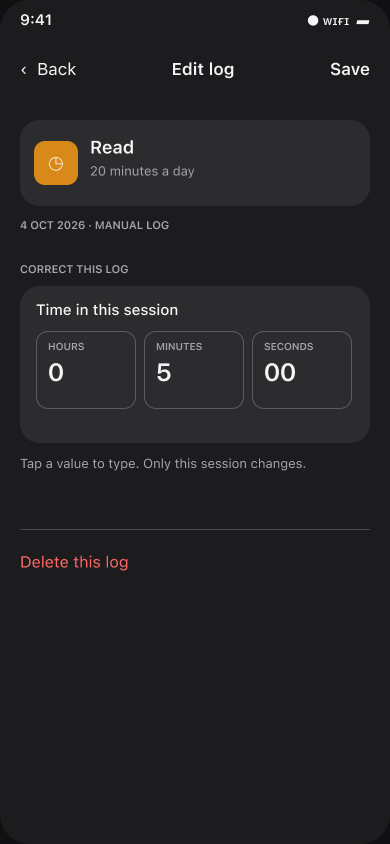
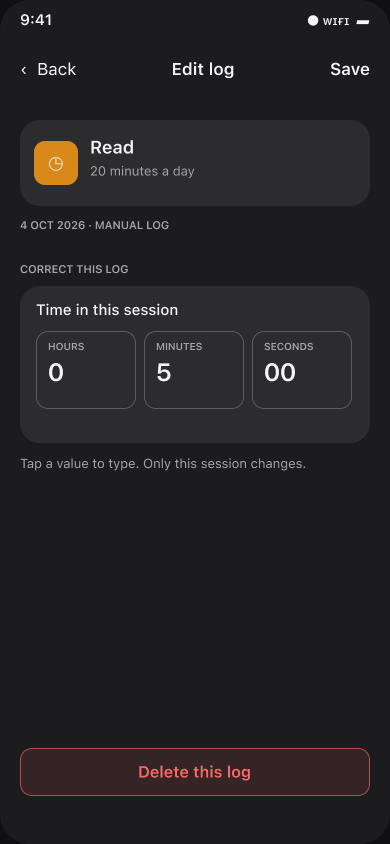
docs: refine entry editor delete action

Changed region(s): [[0.0308, 0.8626, 0.9538, 0.955], [0.0615, 0.6469, 0.3385, 0.6777]]

diff --git a/Research/Research Reports/Day Structure and Organization/Day Details and Entry Editor Handoff/Entry Editor Wireframes.md b/Research/Research Reports/Day Structure and Organization/Day Details and Entry Editor Handoff/Entry Editor Wireframes.md
@@ -2,11 +2,11 @@
 
 Written by Codex (OpenAI), 4 October 2026. [Handoff index](README.md) · [editor research](<Editing One Habit Log — Scope, Fields and Recovery.md>) · [decision history](<Decision History — Why the Layout Changed.md>) · [editable Figma board](https://www.figma.com/design/Ncccsm1l2O62GJ5xLSInqk/Design?node-id=408-2071).
 
-**These are pop-up wireframes showing the correction layout, fields and interaction states—not final iOS designs.** Implement real SwiftUI navigation, text fields, native keyboard, compact `DatePicker`, controls and alerts. The drawn status bar, keyboard, focus ring, chevrons, buttons, dividers and exact heights are only visual representations. Follow Rulebook U1/U6/U9/U19 and the [native implementation contract](<Native Implementation Contract.md>).
+**These are pop-up wireframes showing the correction layout, fields and interaction states—not final iOS designs.** Implement real SwiftUI navigation, text fields, native keyboard, compact `DatePicker`, controls and alerts. The drawn status bar, keyboard, focus ring, chevrons, buttons and exact heights are only visual representations. Follow Rulebook U1/U6/U9/U19 and the [native implementation contract](<Native Implementation Contract.md>).
 
 ## Scope and common structure
 
-Tapping an **editable saved record** from Day details opens **Edit log** for an amount, duration or multi-check count, or **Edit slip** for a quit occurrence. The first editable item is the fact that this *one* record owns. Habit name/icon, tracked day, source and time zone provide context without replacing the field. Save changes only this record, preserves its ID and other records, and returns to the relevant Day details state. Back discards the draft; if the user changed it, provide an appropriate discard decision before losing work. The separated **Delete this log / Delete this slip** action names exactly what will be deleted and confirms until there is a reliable one-record Undo (U19).
+Tapping an **editable saved record** from Day details opens **Edit log** for an amount, duration or multi-check count, or **Edit slip** for a quit occurrence. The first editable item is the fact that this *one* record owns. Habit name/icon, tracked day, source and time zone provide context without replacing the field. Save changes only this record, preserves its ID and other records, and returns to the relevant Day details state. Back discards the draft; if the user changed it, provide an appropriate discard decision before losing work. A full-width, native bordered **Delete this log / Delete this slip** button sits near the bottom safe area, separated by open space from the editable field and Save. There is **no divider above it**. Tapping Delete opens a native confirmation alert; no record is removed until the person chooses its destructive action (U19). In the keyboard-focused state, the keyboard covers the bottom area; dismiss it to reach Delete rather than floating a destructive control beside the keyboard.
 
 No generic editor opens for a one-time task, checklist step, once-daily binary check, single check toward a weekly/monthly goal, or individual one-check record. Those correct with their named controls in Day details. A multi-check *record whose integer value can change* does need the count editor. Do not leave a chevron pointing to a removed screen.
 
@@ -16,7 +16,7 @@ No generic editor opens for a one-time task, checklist step, once-daily binary c
 
 ![Water amount record editor](Images/entry-01-water-amount.png)
 
-Show this saved record's amount and **glass** unit together; the whole-day 8-glass target is context, not an editable field here. Use a native numeric field with locale-aware decimal handling and validation; Save affects only this one log. The destructive action is separated from the value and Save. [Figma state](https://www.figma.com/design/Ncccsm1l2O62GJ5xLSInqk/Design?node-id=408-2077).
+Show this saved record's amount and **glass** unit together; the whole-day 8-glass target is context, not an editable field here. Use a native numeric field with locale-aware decimal handling and validation; Save affects only this one log. The distinct bottom Delete button opens the confirmation shown in state 07. [Figma state](https://www.figma.com/design/Ncccsm1l2O62GJ5xLSInqk/Design?node-id=408-2077).
 
 ### 02. Coffee — at-most amount log
 
@@ -74,7 +74,7 @@ The edited draft shows a changed Date and Time and tells the person that Save mo
 
 ![Confirmation for deleting exactly one Water log](Images/entry-07-delete-confirmation.png)
 
-The confirmation must identify **one selected record** and its day; Cancel leaves it untouched. Deleting one log must preserve other logs, the day note and skip flag, then recalculate the day. Use a native `confirmationDialog`/alert appropriate to the iOS context; the mockup's drawn overlay is illustrative. Revisit confirmation only after a durable and discoverable one-record Undo exists (U14/U19). [Figma state](https://www.figma.com/design/Ncccsm1l2O62GJ5xLSInqk/Design?node-id=408-2302).
+Tapping the bottom **Delete this log** button presents this confirmation **before** removal. The pop-up identifies **one selected record** and its day; **Cancel** leaves it untouched and the destructive **Delete log** removes only that record. Other logs, the day note and skip flag stay; then the day recalculates. Use a native SwiftUI alert with a cancel action and a destructive role, not a hand-drawn overlay or immediate deletion. The mockup's drawn alert is illustrative. Apply the same pattern to **Delete this slip**, naming the slip and its occurrence; revisit confirmation only after a durable, discoverable one-record Undo exists (U19). [Figma state](https://www.figma.com/design/Ncccsm1l2O62GJ5xLSInqk/Design?node-id=408-2302).
 
 ## Validation before implementation is called done
 

diff --git a/Research/Research Reports/Day Structure and Organization/Day Details and Entry Editor Handoff/Editing One Habit Log — Scope, Fields and Recovery.md b/Research/Research Reports/Day Structure and Organization/Day Details and Entry Editor Handoff/Editing One Habit Log — Scope, Fields and Recovery.md
@@ -1,6 +1,6 @@
 # Editing One Habit Log — Scope, Fields and Recovery
 
-Written by Codex (OpenAI), 4 October 2026. Research and editable Figma proposal for [Current Work Checklist item 36](<../../../../iOS/Docs/Checklists/Current Work Checklist.md>). This is a design proposal; `EntryEditView` has not been changed. The user's later review prompted the explicit tap-to-type duration interaction and the slip's Date **and** Time fields. The [10 Markdown-renderable wireframes](<Entry Editor Wireframes.md>), [decision history](<Decision History — Why the Layout Changed.md>) and [native implementation contract](<Native Implementation Contract.md>) record the completed handoff. The user found the overall editor direction good, but these pop-ups are **representational wireframes, not final native iOS designs or validated screens**. Implement native controls, keyboard, compact pickers, toolbar and confirmation; do not ship Figma glyphs or geometry (U1/U9/U19).
+Written by Codex (OpenAI), 4 October 2026. Research and editable Figma proposal for [Current Work Checklist item 36](<../../../../iOS/Docs/Checklists/Current Work Checklist.md>). This is a design proposal; `EntryEditView` has not been changed. The user's later reviews prompted the explicit tap-to-type duration interaction, the slip's Date **and** Time fields, and a bottom Delete button with no divider and a confirmation pop-up. The [10 Markdown-renderable wireframes](<Entry Editor Wireframes.md>), [decision history](<Decision History — Why the Layout Changed.md>) and [native implementation contract](<Native Implementation Contract.md>) record the handoff. The user found the overall editor direction good, but these pop-ups are **representational wireframes, not final native iOS designs or validated screens**. Implement native controls, keyboard, compact pickers, toolbar and confirmation; do not ship Figma glyphs or geometry (U1/U9/U19).
 
 ## The decision in brief
 
@@ -48,9 +48,9 @@ The current `DayEntriesSection` gives all non-step, non-task records a chevron. 
 2. **Compact identity/context:** habit icon and name, then the selected day and record's source. This confirms **which log** is being edited without a large introductory card. Treat source as provenance, not a control. The existing `.daySheet` source label “History” may be clearer as “Added from History” in this context; this is display copy only.
 3. **The editable fact:** show one large, clearly labelled value group. Amounts keep their unit beside the input, with singular/plural handled by app copy rules. Duration has small, adjacent **Hours · Minutes · Seconds** numeric fields, including decimal seconds for sub-minute timer logs. A count record has “Checks in this log” and its unit. A slip has **Date** and **Time** rows under “When it happened,” both native compact pickers for one occurrence timestamp. Do not place the goal or day total inside the input; this edit changes a single saved record, not the plan or whole day.
 4. **Scope hint and metadata:** a short “Only this log changes” hint when other logs exist; source and tracked day remain readable. For a backfilled log, `createdAt` is the recording timestamp and may be later than the tracked day, so avoid calling it “Time completed.” A slip's saved recording time zone remains visible, especially when it differs from the phone's current zone. The selected Date and Time use that zone so the same displayed values identify the same occurrence.
-5. **Destructive action:** “Delete this log” or “Delete slip” is a separate, less prominent red row below the form with generous distance from Save and the numeric field. It removes only the selected record. Since current deletion has no durable Undo, confirmation names the exact amount/session/slip and tracked day, with **Cancel** and **Delete log/slip**. If implementation later provides reliable, reachable one-record Undo, the confirmation can be reconsidered under Apple's alert guidance.
+5. **Destructive action:** “Delete this log” or “Delete this slip” is a full-width, native bordered destructive **button near the bottom safe area**, visually distinct from Save and the input. No separator line sits above it. Tapping it changes no data; a native confirmation alert names the exact amount/session/slip and tracked day, with **Cancel** and a destructive **Delete log/slip** action. Only that confirmation removes the selected record. Current deletion has no durable Undo; if implementation later provides reliable, reachable one-record Undo, the alert can be reconsidered under Apple's guidance. When the keyboard is open, let it cover the bottom button and reveal the button after dismissal rather than moving it beside the keys.
 
-Use the existing Day-sheet light/dark colors and SF Pro/system typography. Mocked controls are a visual approximation: implementation should use regular native SwiftUI controls, Dynamic Type, a usable keyboard Done affordance, and at least 44-point touch targets (Rulebook U1/U18). Group label-to-field spacing around 8–10 pt; separate identity, field and destructive action with roughly 24–28 pt outside gaps. These are proposed relationships, not fixed coordinates at all text sizes (U17).
+Use the existing Day-sheet light/dark colors and SF Pro/system typography. Mocked controls are a visual approximation: implementation should use regular native SwiftUI controls, Dynamic Type, a usable keyboard Done affordance, and at least 44-point touch targets (Rulebook U1/U18). Group label-to-field spacing around 8–10 pt; use flexible space between the last field/context and the bottom destructive button, plus a safe-area gap. These are proposed relationships, not fixed coordinates at all text sizes (U17).
 
 ## How a duration is actually changed
 

diff --git a/iOS/Design Rules — Don't Regress.md b/iOS/Design Rules — Don't Regress.md
@@ -304,7 +304,7 @@ Source: [Today's Rows — Tap, Swipe, the Day Sheet and Delete](<../Research/Res
 
 **Spacing in this proposal (U17):** use smaller inter-element gaps inside one job—10 pt status to its control, 8 pt quick to manual and log heading to records, 18 pt logging controls to the logs subgroup. Give the whole day-activity group 28 pt *outside* space above and below it; leave 24 pt between the note and Skip/Undo skip. These are prototype relationships, not added card padding or fixed SwiftUI constants. Recheck on the real iPhone with Dynamic Type before implementation is called done (U1/U9).
 
-**4 Oct 2026 single-record editor proposal; not implemented (U19).** Source: [Editing One Habit Log — Scope, Fields and Recovery](<../Research/Research Reports/Day Structure and Organization/Day Details and Entry Editor Handoff/Editing One Habit Log — Scope, Fields and Recovery.md>) and [ten Markdown-renderable wireframes](<../Research/Research Reports/Day Structure and Organization/Day Details and Entry Editor Handoff/Entry Editor Wireframes.md>) ([editable Figma states](https://www.figma.com/design/Ncccsm1l2O62GJ5xLSInqk/Design?node-id=408-2071)). Amount and duration logs open **Edit log**, a multi-check record opens it only when its saved value can meaningfully change, and a quit slip opens **Edit slip** to correct **when it happened: date and time**. A single check, checklist step and task correct directly in the Day sheet, without a generic “Times 1” form. Duration hours/minutes/seconds are visible together: tap a value to select and type it with the native number or decimal pad, use Next/Done across the fields, and preserve fractional seconds. A slip uses compact native Date and Time pickers in the saved time zone. Keep the chosen log's value and unit first, tracked day/source as compact context, native Back/Save in the toolbar, and a distinct Delete this log/slip action that names the one record and confirms it while no durable deletion Undo exists. Preserve other logs, the note and skip flag. A changed slip date requires an atomic update of timestamp **and** tracking day under the same record ID, with day-bucket and quit-run recalculation; return to the destination Day sheet, leaving the old day's note there. Until that storage path is implemented, do not expose a date picker that appears to save. Route the affected Day-sheet rows without dead chevrons and validate on the iPhone with large text, light/dark and VoiceOver. Build every visual control natively; Figma glyphs and dimensions are representations, not the final design (U1).
+**4 Oct 2026 single-record editor proposal; not implemented (U19).** Source: [Editing One Habit Log — Scope, Fields and Recovery](<../Research/Research Reports/Day Structure and Organization/Day Details and Entry Editor Handoff/Editing One Habit Log — Scope, Fields and Recovery.md>) and [ten Markdown-renderable wireframes](<../Research/Research Reports/Day Structure and Organization/Day Details and Entry Editor Handoff/Entry Editor Wireframes.md>) ([editable Figma states](https://www.figma.com/design/Ncccsm1l2O62GJ5xLSInqk/Design?node-id=408-2071)). Amount and duration logs open **Edit log**, a multi-check record opens it only when its saved value can meaningfully change, and a quit slip opens **Edit slip** to correct **when it happened: date and time**. A single check, checklist step and task correct directly in the Day sheet, without a generic “Times 1” form. Duration hours/minutes/seconds are visible together: tap a value to select and type it with the native number or decimal pad, use Next/Done across the fields, and preserve fractional seconds. A slip uses compact native Date and Time pickers in the saved time zone. Keep the chosen log's value and unit first, tracked day/source as compact context, native Back/Save in the toolbar, and a full-width native **Delete this log/slip** button near the bottom safe area with no divider above it. Tapping Delete must open a native alert naming the one record and offering Cancel and a destructive confirmation; initial tap changes no data while no durable deletion Undo exists. Preserve other logs, the note and skip flag. A changed slip date requires an atomic update of timestamp **and** tracking day under the same record ID, with day-bucket and quit-run recalculation; return to the destination Day sheet, leaving the old day's note there. Until that storage path is implemented, do not expose a date picker that appears to save. Route the affected Day-sheet rows without dead chevrons and validate on the iPhone with large text, light/dark and VoiceOver. Build every visual control natively; Figma glyphs and dimensions are representations, not the final design (U1).
 
 ## Ticking off, folding and settings (1 Oct 2026)
 

diff --git a/RULEBOOK.md b/RULEBOOK.md
@@ -112,7 +112,7 @@ results, what's still open) · `iOS/Tools/perf/` (scripts) · the speed tables o
 | U16 | **Day-sheet action emphasis follows the goal.** Quick and manual logging controls use equal native-size hit areas, with style expressing priority. Positive goal actions such as Mark done, Add 1 glass and Start timer may be prominent; logging toward an at-most limit or recording a slip stays plainly available without a prominent invitation | The user's 4 Oct design review: a filled Add 1 cup for an at-most-2-cups goal suggests the wrong next action |
 | U17 | **Day-sheet spacing shows what belongs together.** Keep the selected-day state close to its logging controls and any log heading close to its records. Give the whole day-activity group larger outside margins before the habit identity and note; separate the note from Skip/Undo skip. Use gaps between elements, not larger card padding, and adapt them for Dynamic Type | The user's 4 Oct spacing review: equal gaps made every element read as one section despite different jobs; [spacing study](<Research/Research Reports/Day Structure and Organization/Day Details and Entry Editor Handoff/The Habit Day Sheet — Wording, Hierarchy and Actions.md#spacing-and-grouping-4-october>) |
 | U18 | **The Day-details sheet dismisses with the standard Close icon.** Its actions save when tapped, so use the SF Symbol `xmark` as an icon-only toolbar control with a 44 pt hit region and accessible name **Close**. Keep the selected-day title centred between equally sized leading ⋯ and trailing Close targets. Preserve text Cancel/Save/Done in editors that have a draft or completion step | The user's 4 Oct close-control review; Apple's toolbar and sheet guidance, documented in the [Day-sheet study](<Research/Research Reports/Day Structure and Organization/Day Details and Entry Editor Handoff/The Habit Day Sheet — Wording, Hierarchy and Actions.md#close-icon-in-the-day-sheet-4-october>) |
-| U19 | **Edit one saved record only where it has an independent fact to correct.** Amount records expose their value and unit; duration records expose tap-to-type hours/minutes/seconds, including decimal seconds; a multi-check record can edit its integer count; a quit slip edits **when it happened**, date and time in its recorded zone. Single done checks, one-check records, checklist steps and one-time tasks correct through named Day-sheet controls instead of a redundant “Times 1” editor. Keep day/source as context, never imply that saving changes the whole day, and distinguish Delete this log/slip from Save; confirm deletion until a durable one-record Undo exists. Moving a slip to another tracking day must atomically update the same record ID, timestamp, day indexes and quit run, then show its destination day; never offer a Date picker that silently fails to save | The user's 4 Oct Entry-page request and time-edit follow-up, the 47 habit-app reviews about correcting one amount/time record, and the [single-record editor study](<Research/Research Reports/Day Structure and Organization/Day Details and Entry Editor Handoff/Editing One Habit Log — Scope, Fields and Recovery.md>) |
+| U19 | **Edit one saved record only where it has an independent fact to correct.** Amount records expose their value and unit; duration records expose tap-to-type hours/minutes/seconds, including decimal seconds; a multi-check record can edit its integer count; a quit slip edits **when it happened**, date and time in its recorded zone. Single done checks, one-check records, checklist steps and one-time tasks correct through named Day-sheet controls instead of a redundant “Times 1” editor. Keep day/source as context, never imply that saving changes the whole day. **Delete this log/slip is a distinct native button near the editor bottom, with no divider above it; tapping it opens a native confirmation pop-up before removing that one record.** Keep it separate from Save and confirm while no durable one-record Undo exists. Moving a slip to another tracking day must atomically update the same record ID, timestamp, day indexes and quit run, then show its destination day; never offer a Date picker that silently fails to save | The user's 4 Oct Entry-page, time-edit and Delete-placement reviews, the 47 habit-app reviews about correcting one amount/time record, and the [single-record editor study](<Research/Research Reports/Day Structure and Organization/Day Details and Entry Editor Handoff/Editing One Habit Log — Scope, Fields and Recovery.md>) |
 
 *Evidence:* [Design Rules — Don't Regress](<iOS/Design Rules — Don't Regress.md>) (every screen's decisions, with the
 research behind each) · `Research/Research Reports/` (the research, [index](<Research/Research Reports/README.md>)).

diff --git a/Research/Research Reports/README.md b/Research/Research Reports/README.md
@@ -49,7 +49,7 @@ Time-of-day sections, groups, guided routines, sub-habits, ordering and notes.
 | [Day Details and Entry Editor — Research and Wireframe Handoff](<Day Structure and Organization/Day Details and Entry Editor Handoff/README.md>) | Codex | 4 Oct 2026 | Dedicated folder: decision history explaining every user-review revision, native iOS implementation contract, both detailed reports, 21 Day-details and 10 Entry-editor Markdown-renderable PNG wireframes, and editable Figma links. These are representative layouts/interactions, not final designs; app implementation and device validation remain open. |
 | [Task Notes in Day Details — Evidence and Decision](<Day Structure and Organization/Day Details and Entry Editor Handoff/Task Notes in Day Details — Evidence and Decision.md>) | Codex | 4 Oct 2026 | Targeted task-note review evidence and current-code audit. Keep task notes optional and secondary to completion; preserve the date-scoped meaning, add a saved-note task wireframe, and remove the unused centered-header study. |
 | [The Habit Day Sheet — Wording, Hierarchy and Actions](<Day Structure and Organization/Day Details and Entry Editor Handoff/The Habit Day Sheet — Wording, Hierarchy and Actions.md>) | Codex | 4 Oct 2026 | Current-code and screenshot audit, earlier review findings, Apple/NNG guidance, proposed hierarchy and copy/action matrix. The revised proposal uses native-size goal-aware logging controls, a day-note field, stable Skip/Undo position, saved-log preservation, no bottom day pager, proximity-based section spacing and a native Close icon; 21 editable Figma variants. Implementation and device validation remain open. |
-| [Editing One Habit Log — Scope, Fields and Recovery](<Day Structure and Organization/Day Details and Entry Editor Handoff/Editing One Habit Log — Scope, Fields and Recovery.md>) | Codex | 4 Oct 2026 | Amount, duration, multi-check and quit-slip correction; binary checks, one-check records, checklist steps and tasks stay in the Day sheet. Duration is tap-to-type hours/minutes/decimal seconds with native keyboard focus; a slip edits occurrence date and time using compact native pickers. Documents the required atomic same-ID day move, deletion recovery, edge cases and ten editable Figma states. Design only; app build and iPhone validation remain open. |
+| [Editing One Habit Log — Scope, Fields and Recovery](<Day Structure and Organization/Day Details and Entry Editor Handoff/Editing One Habit Log — Scope, Fields and Recovery.md>) | Codex | 4 Oct 2026 | Amount, duration, multi-check and quit-slip correction; binary checks, one-check records, checklist steps and tasks stay in the Day sheet. Duration is tap-to-type hours/minutes/decimal seconds with native keyboard focus; a slip edits occurrence date and time using compact native pickers. The later Delete review moves the destructive action to a bottom button without a divider, followed by a native confirmation alert. Documents the required atomic same-ID day move, deletion recovery, edge cases and ten editable Figma states. Design only; app build and iPhone validation remain open. |
 | [Today's Rows — The Line Under the Name, Notes and Spacing](<Day Structure and Organization/Today's Rows — The Line Under the Name, Notes and Spacing.md>) | **Claude** | 3 Oct 2026 | Whole-corpus scan (1,487,223 → 1,537 read by hand, 330 on topic, 47 apps): one line under every name saying what today asks (progress when counted, how often when a single tick, then the time); tasks say "Task"; quit rows show the best run beside the live count; notes in their own sheet; one set of spacing numbers. Evidence in `Today Row Text Evidence/`. |
 | [Undo and Fixing Progress — What People Expect](<Day Structure and Organization/Undo and Fixing Progress — What People Expect.md>) | **Claude** | 30 Sep 2026 | Build Plan #57. Whole-corpus scan (1,487,223 reviews → 2,677 read by hand; 1,084 on topic, 715 in 84 habit apps). Mistaken logs are common (445); no undo is the complaint (382); undo must be visible and not time out; fix one entry, not the day (47); fix past days via history, but a tap must not change a day by itself. Proposes inline Undo on the logged row, one Day sheet, and a Today row + tappable calendar on the habit page. |
 | [The Habit Page — What People Expect](<Day Structure and Organization/The Habit Page — What People Expect.md>) | **Claude** | 29 Sep 2026 | Short check (128 read): a habit's page is for its history calendar and its numbers, details up front, notes, Edit/Pause/Archive/Delete; never the way to check off. |

diff --git a/Research/Research Reports/Day Structure and Organization/Day Details and Entry Editor Handoff/Native Implementation Contract.md b/Research/Research Reports/Day Structure and Organization/Day Details and Entry Editor Handoff/Native Implementation Contract.md
@@ -20,7 +20,7 @@ The Figma pop-ups are **layout and interaction representations, not final design
 | Toolbar Back and Save in record editor | Native navigation/toolbar actions | Back discards or confirms a dirty draft; Save validates and changes only the selected record. Do not use Day-details Close semantics for a draft editor. |
 | Amount/count/time fields | Native text fields with appropriate number/decimal keyboard, focus and validation | Prefill saved values, expose units, keep keyboard/focus visible, select the tapped duration part, use Next/Done across time fields. Avoid form-wide per-keystroke redraw (U6/S11). |
 | Slip Date and Time rows | Native compact `DatePicker` controls using the saved record's time zone | Both represent one occurrence instant; changing date may move the tracking day and quit run. Do not enable cross-day edits until the same-ID atomic store/repository/sync path exists (D7/U19). |
-| Red Delete row and confirmation overlay | Native destructive action and native confirmation UI | Identify the one record/day and keep Cancel easy. Never delete the whole day or a habit through this one-record action. Confirm until a durable one-record Undo exists (U19). |
+| Bottom **Delete this log/slip** button and confirmation overlay | Native full-width bordered `Button` with destructive tint near the bottom safe area, then a native SwiftUI alert | No divider above the button; keep flexible space from the field and Save. Tap presents an alert without deleting. Identify the one record/day, offer Cancel and a destructive Delete action, then remove only that record if confirmed. Never delete the whole day or habit through this action. Confirm until a durable one-record Undo exists (U19). |
 
 ## Day-details state model
 
@@ -40,7 +40,7 @@ The [task-note review](<Task Notes in Day Details — Evidence and Decision.md>)
 - **Durations:** present Hours, Minutes and Seconds together. On open, keyboard stays closed. Tapping a part selects its value for direct typing; Hours/Minutes use numeric keypad, Seconds decimal keypad. Next/Done follows logical order; 1.23 seconds must persist. Validate 0–59 Minute/Second parts, total > 0 and the model's maximum near the field. Keep each field's typing state local for S11.
 - **Multi-check records:** edit a positive integer only when one record stores a multi-check count. A one-check record has no meaningful smaller positive count; correct it by named one-record Undo in Day details.
 - **Quit slips:** edit the **occurrence date and time**, in the saved recording time zone. Changing one component retains the other. Validate actual instant against future/start limits and derive the tracking day using the local calendar/day-start rule, including DST (D7). Current `HabitStore.editEntry` only permits changes within the original day and current repository write only changes timestamp/value; the cross-day UI must wait for atomic update of `createdAt`, `entry.day`, per-day indexes, persistence/sync, affected summaries and quit run under the same ID. After Save, show the destination day with the slip visible; the old day's note remains there.
-- **Deletion:** one selected ID only. Show explicit **Delete this log** or **Delete this slip**, far from Save. Confirm without a durable one-record Undo. Saving/deleting one record recalculates day status but preserves other logs, note and skip flag.
+- **Deletion:** one selected ID only. Show explicit **Delete this log** or **Delete this slip** as a bottom native button, separated from Save and the field without a divider. On tap, present a native alert naming the record/day with Cancel and a destructive confirmation; no delete runs on initial tap. Confirm while there is no durable one-record Undo. Saving/deleting one record recalculates day status but preserves other logs, note and skip flag. Keep the button in the editor's scroll/safe-area layout and reachable after dismissing a numeric keyboard at Dynamic Type sizes.
 
 ## Why this is the handoff, and what remains open
 

diff --git a/Research/Research Reports/Day Structure and Organization/Day Details and Entry Editor Handoff/Decision History — Why the Layout Changed.md b/Research/Research Reports/Day Structure and Organization/Day Details and Entry Editor Handoff/Decision History — Why the Layout Changed.md
@@ -21,6 +21,7 @@ The user said the revised overall Day-details layout looked good and later said 
 | Entry-editor scope review | Tapping any record opened one generic `Edit Entry` form, including a binary “Times 1.” Its selected-record value was not visually dominant, units were weak and deletion was immediate. | Separate **Edit log** for amount/duration/multi-check values and **Edit slip** for a quit occurrence. Single checks, checklist steps and tasks correct in Day details. Show one selected value, compact source/day context, native Back/Save, and a distinct Delete-this-record confirmation. | The user asked for the same focused research as Day details. Only records with an independent editable fact need another screen; one-record correction remains clear (U19). |
 | Duration interaction review | Three time fields alone did not explain whether the person types, scrolls or picks; the current large wheel feels heavy for changing one saved session. | Kept Hours/Minutes/Seconds visible together. Tap one value to select and type; number pad for Hours/Minutes, decimal pad for Seconds; Next/Done moves focus. Keyboard stays closed on initial open. Preserve 1.23-second precision and show errors rather than silently clamping. | It makes correction direct while retaining the exact original value. This is an inference from Apple's input guidance and the app's fractional-second model, not a measured comparison (S11/U6/U19). |
 | Slip-occurrence review | A slip records **when it happened**, not only the clock time on a permanently fixed day. | Added separate native compact Date and Time picker rows, saved time-zone context, and a draft state that moves the slip to the destination day. Documented an atomic same-ID `createdAt`/tracked-day update before shipping. | Deleting and re-adding a true slip merely to fix its date would be confusing and risks identity/data consistency. Current code cannot move the day yet, so the picker is a proposal until D7/U19 storage work is complete. |
+| Entry-editor Delete placement | The red text action below a divider read like a loose form row, not a button; the user wanted Delete at the bottom and a confirmation pop-up on tap. | Replaced the form-row treatment in all ten editor states with a full-width, bottom bordered destructive button, removed the divider above it, and retained the separate alert state reached by tapping it. The alert names one record and offers Cancel plus the destructive action. | The button's shape communicates an action, its bottom position separates it from correcting and saving the value, and the alert prevents an accidental immediate removal. This is the user's reviewed direction; native SwiftUI button/alert behavior and a real-iPhone check remain required (U1/U9/U19). |
 | Task-note and alignment follow-up | It was unclear whether tasks need Add Note. The centered-header exploration could imply an alternate layout despite the user's leading-aligned decision. | Checked task-note requests in the review corpus and the app's current note storage. Kept an optional, secondary **Note for this day** surface in unfinished and done task states, added a task-with-saved-note state, and removed the centered-header comparison from Figma and Markdown. | Reviews show concrete use for instructions and follow-up, while one explicitly says most tasks need no note. A note stays available without becoming a required step or rival completion CTA. Leading alignment keeps one scan pattern across the Today sheet. Current task notes are date-scoped; moving a task does not migrate them, so the wireframe does not claim a task-wide note (U5/D7). [Evidence and decision](<Task Notes in Day Details — Evidence and Decision.md>). |
 
 ## Why the final arrangement is the handoff baseline

diff --git a/iOS/Docs/Checklists/Current Work Checklist.md b/iOS/Docs/Checklists/Current Work Checklist.md
@@ -486,3 +486,9 @@ Completed work retains its original evidence and any outstanding user review.
   - [Task-specific review and code audit](<../../../Research/Research Reports/Day Structure and Organization/Day Details and Entry Editor Handoff/Task Notes in Day Details — Evidence and Decision.md>) support keeping an optional, secondary note surface. The current note is keyed to task and selected day; moving a one-time task does not move the note (D7/U5).
   - The [Day-details wireframe page](<../../../Research/Research Reports/Day Structure and Organization/Day Details and Entry Editor Handoff/Day Details Wireframes.md>) now shows task undone/empty-note, undone/saved-note and done states. Figma's unused centered-header comparison and its PNG were removed; the leading-aligned identity is the sole proposed pattern. These remain representative mockups, not native implementation (U1/U9).
   - Verified the old Figma node is absent and the new saved-note node exists; all 31 Markdown image links and the new local report links resolve. `git diff --check` and `iOS/Tools/perf/check_rules.sh` passed. No iOS app code or device state was changed.
+
+- [x] **41. Refine the single-record editor's Delete action.** Completed as a design/documentation update 4 October 2026; native iOS implementation remains item 36.
+  - [x] **Delete this log / Delete this slip** is a bottom bordered destructive-button specimen in all 10 Figma editor states, separated from Save and the editable field. State 09's keyboard covers the bottom area until dismissed (U1/U19).
+  - [x] Removed the unnecessary divider above Delete in every editor state; the alert's own native-style action separator remains.
+  - [x] State 07 shows the confirmation pop-up reached on Delete: one selected log/day, Cancel, and a destructive Delete log action. The handoff specifies the corresponding slip alert and that initial tap changes no data (D6/U19).
+  - [x] Re-exported all 10 Entry-editor PNGs and updated the handoff, research report, Design Rules and Rulebook U19. Figma read-back confirmed 10 bottom buttons, zero form dividers, one confirmation state, SF Pro text and editable layers. All 31 Markdown image references resolve, `git diff --check` and `iOS/Tools/perf/check_rules.sh` pass. Documentation publication to `main` follows Rulebook T10 without an iOS test tag.

diff --git a/Research/Research Reports/Day Structure and Organization/Day Details and Entry Editor Handoff/README.md b/Research/Research Reports/Day Structure and Organization/Day Details and Entry Editor Handoff/README.md
@@ -14,7 +14,7 @@ The user judged the final **overall layout and interaction direction** substanti
 2. [The Habit Day Sheet — Wording, Hierarchy and Actions](<The Habit Day Sheet — Wording, Hierarchy and Actions.md>) is the research, current-code audit, evidence, copy/action matrix and spacing rationale for **Day details**.
 3. [Day Details Wireframes](<Day Details Wireframes.md>) embeds and describes all **21** exported Day-details states, including unfinished, saved-note and done task states. The unused centered-header study was removed; all proposed identity rows use leading alignment. [Editable Figma board](https://www.figma.com/design/Ncccsm1l2O62GJ5xLSInqk/Design?node-id=370-2031).
 4. [Editing One Habit Log — Scope, Fields and Recovery](<Editing One Habit Log — Scope, Fields and Recovery.md>) is the research, type-routing matrix, duration/slip behavior, data gap and recovery rationale for the **one-record editor**.
-5. [Entry Editor Wireframes](<Entry Editor Wireframes.md>) embeds and describes all **10** exported Entry-editor states. [Editable Figma board](https://www.figma.com/design/Ncccsm1l2O62GJ5xLSInqk/Design?node-id=408-2071).
+5. [Entry Editor Wireframes](<Entry Editor Wireframes.md>) embeds and describes all **10** exported Entry-editor states. Every applicable state now has a bottom Delete button without a form divider; state 07 shows the native-alert interaction to implement. [Editable Figma board](https://www.figma.com/design/Ncccsm1l2O62GJ5xLSInqk/Design?node-id=408-2071).
 6. [Task Notes in Day Details — Evidence and Decision](<Task Notes in Day Details — Evidence and Decision.md>) records the task-specific review evidence, decision to keep notes optional, and current date-scoped storage caveat.
 7. [Native Implementation Contract](<Native Implementation Contract.md>) maps the wireframe elements to iOS behavior and lists what must be validated before shipping.
 8. [Images](Images/) contains 31 PNG exports of **our own editable Figma layers**, not the reference screenshots. The relative image links in the two wireframe documents render directly in Markdown without Figma access.
